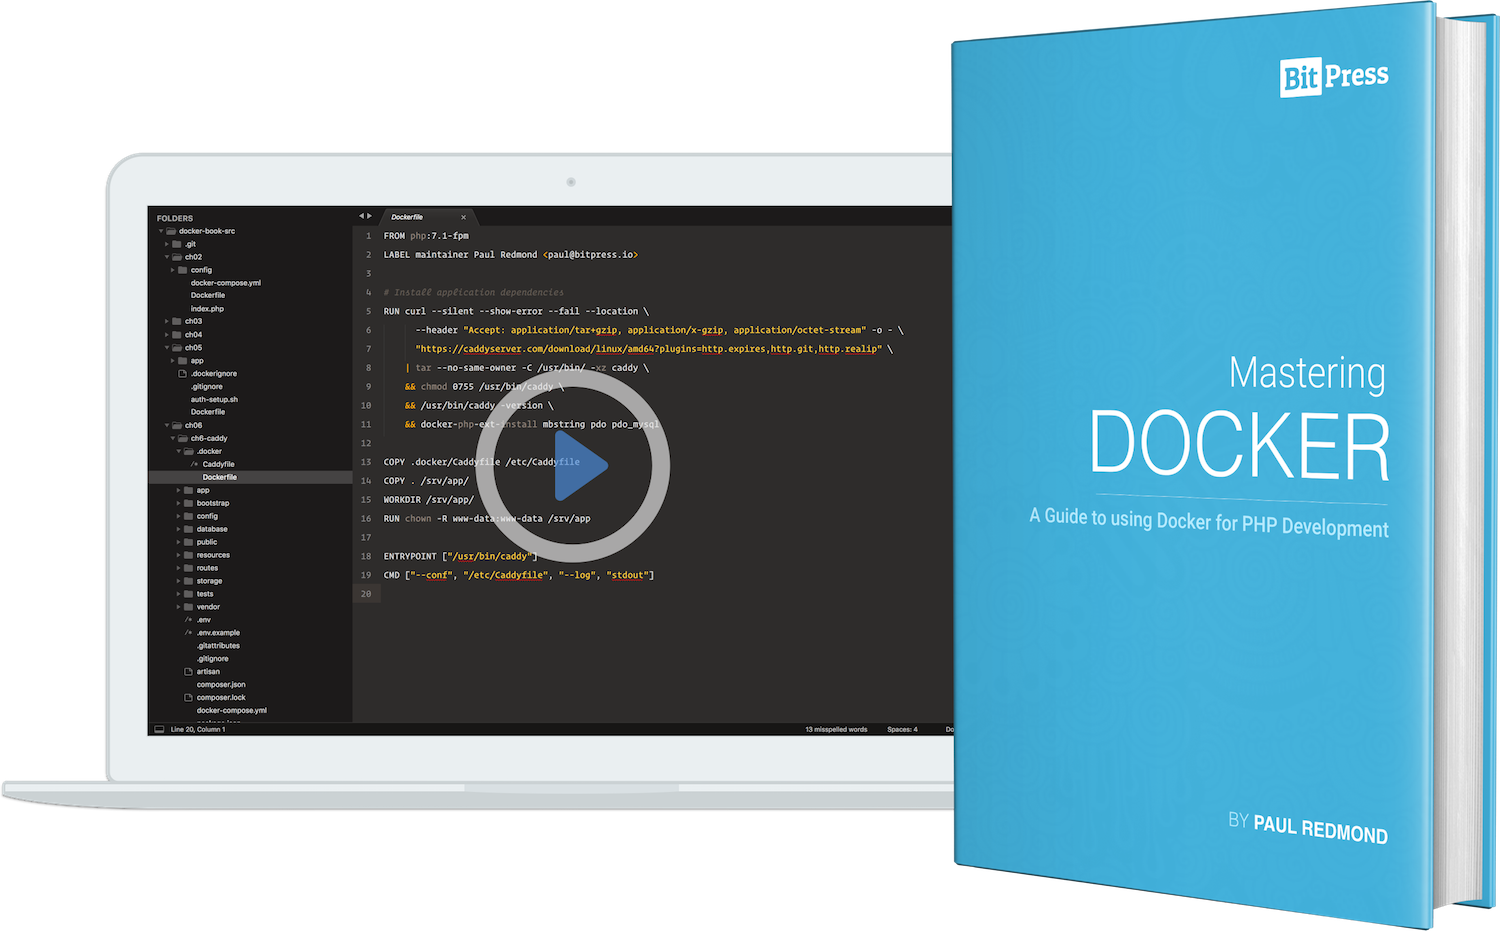
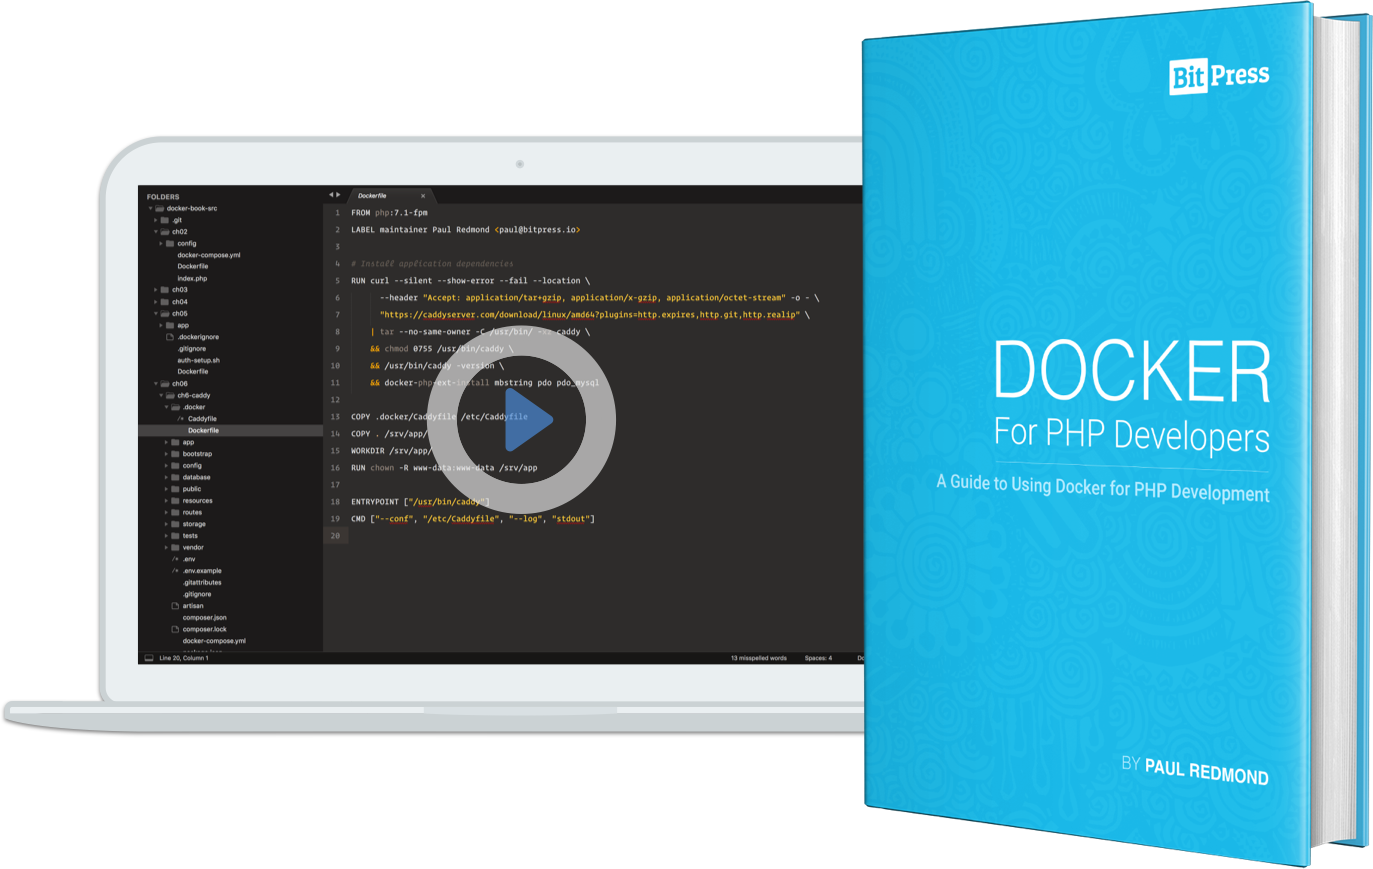
Latest LP

diff --git a/_sass/mastering-docker/ui/_all.scss b/_sass/mastering-docker/ui/_all.scss
@@ -4,6 +4,8 @@ body {
   border-top: 3px solid rgba(20, 128, 204, 0.5);
 }
 
+.img-fit { max-width: 100%; }
+.highlight { background: #FFF9C4; }
 .pad-t {
   padding-top: 1rem !important;
 }

diff --git a/mastering-docker-php.md b/mastering-docker-php.md
@@ -1,12 +1,12 @@
 ---
 layout: mastering-docker
-permalink: /mastering-docker/
+permalink: /docker-for-php-developers/
 ---
 <section class="hero section header is-small has-text-centered">
     <div class="container">
         <div class="columns">
             <div class="column is-10 is-offset-1 ">
-                <h1 class="title size-medium is-spaced is-intro">Master Docker for <strong>PHP Development</strong></h1>
+                <h1 class="title size-medium is-spaced is-intro">Docker for <strong>PHP Developers</strong></h1>
                 <h2 class="subtitle">Learn How to Make PHP Development with Docker Feel like <strong>127.0.0.1</strong></h2>
             </div>
         </div>
@@ -23,19 +23,19 @@ permalink: /mastering-docker/
 <section class="hero section is-small intro">
     <div class="container is-fullhd" style="">
         <div class="columns level">
-            <div class="column is-8-desktop is-6-tablet has-text-centered level-left">
+            <div class="column is-7-desktop is-6-tablet has-text-centered level-left">
                 <div class="columns">
                     <div class="column is-10-desktop is-offset-1-desktop">
-                        <img src="/assets/images/docker-book/docker-php-lead-product-no-phone.png" />
+                        <img src="/assets/images/docker-book/docker-php-lead-product-no-phone.png" class="img-fit" />
                     </div>
                 </div>
             </div>
-            <div class="column is-4-desktop is-6-tablet has-text-left level-right">
+            <div class="column is-5-desktop is-6-tablet has-text-left level-right">
                 <p class="title is-4 is-spaced">
-                    <em>"Mastering Docker"</em> is a guide that will teach you how to use Docker and PHP to create <strong style="background: #FFF9C4">clean, simple, repeatable development environments</strong> that are easy to understand.
+                    <em>"Docker for PHP Developers"</em> is a guide that will teach you how to use Docker and PHP to create clean, <strong>repeatable development environments</strong> that are easy to understand.
                 </p>
                 <p class="pad-b">
-                    Learn how Docker can simplify your PHP development setup and make it <em style="background: #FFF9C4">simple to share your environment with others</em>. You will learn how to set up, manage, and deploy Docker applications built with PHP 7.
+                    Learn how Docker can simplify your PHP development setup and make it simple to share your environment with others. You will learn how to set up, manage, and deploy Docker applications with confidence.
                 </p>
                 <p>
                    <!-- <a class="button is-info buy-button mb-1-mobile w-100-mobile" href="https://leanpub.com/docker-for-php-developers" target="_blank">
@@ -68,7 +68,7 @@ permalink: /mastering-docker/
                         <h3>Get a Free Book Sample</h3>
                         <div>
                             <p class="pad-b">
-                                <em>"Mastering Docker"</em> is still being finished up. Enter your email address and I'll send you a book sample, insider information, and progress updates. I'll also <em style="background: #FFF9C4">let you know when it's ready so you can get a discount</em>!
+                                <em>"Docker for PHP Developers"</em> is still being finished up. Enter your email address and I'll send you a book sample, insider information, and progress updates. I'll also <em class="highlight">let you know when it's ready so you can get a discount</em>!
                             </p>
                         </div>
                     <div id="ck_error_msg" class="notification is-danger" style="display:none;">
@@ -94,7 +94,7 @@ permalink: /mastering-docker/
         <div class="content">
             <header class="column is-6-desktop is-offset-3-desktop">
                 <h2 class="title has-text-centered">What does the Guide Cover?</h2>
-                <p style="margin-bottom: 2rem"><em>Mastering Docker</em> is a guide that combines a book and videos that help you master Docker as a full time PHP development environment.</p>
+                <p style="margin-bottom: 2rem"><em>Docker for PHP Developers</em> is a guide that combines a book and videos that help you master Docker as a full time PHP development environment.</p>
             </header>
             <div class="whats-inside columns is-multiline">
                 <div class="column is-3-desktop is-6-tablet">
@@ -286,7 +286,7 @@ permalink: /mastering-docker/
                         <i class="fa fa-television" aria-hidden="true"></i>
                         Videos
                     </h1>
-                    <p>I am working vigorously on finalizing the video outline. My goal is to make sure the videos compliment the text, so that both video and book will reinforce your understanding of Docker for PHP development.</p>
+                    <p>I am working on finalizing the video outline. My goal is to make sure the videos compliment the text, so that both video and book will reinforce your understanding of Docker for PHP development.</p>
                     <p><a href="#sample">Sign up</a> and I'll send regular updates on the course!</p>
                 </div>
             </div>
